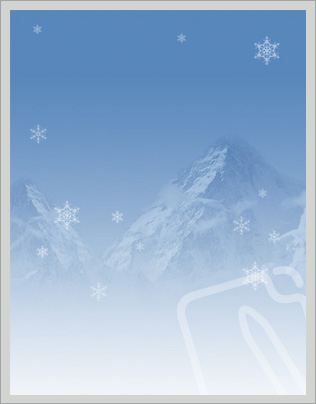
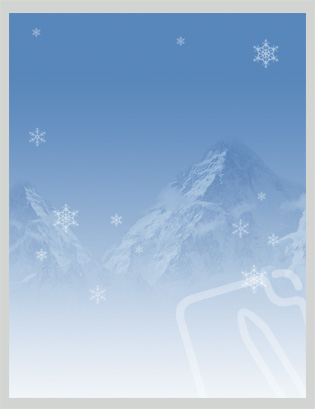
Added CSS rotation and shadow.

diff --git a/plugin.js b/plugin.js
@@ -6,8 +6,8 @@
 
 ( function() {
 
-	var CARD_HEIGHT = 404,
-		CARD_WIDTH = 316;
+	var CARD_HEIGHT = 409,
+		CARD_WIDTH = 315;
 
 	CKEDITOR.plugins.add( 'xmas', {
 		requires: 'dialog',
@@ -81,6 +81,15 @@
 					'text-align: right;' +
 					'color: #1f3e6a;' +
 					'font-size: 12px;' +
+				'}' +
+				'div.cke_xmas_card {' +
+					'transform: rotate(-10deg);' +
+					'-ms-transform: rotate(-10deg);' +
+					'-webkit-transform: rotate(-10deg);' +
+					'-webkit-box-shadow: 10px 10px 45px -2px rgba(0,0,0,0.75);' +
+					'-moz-box-shadow: 10px 10px 45px -2px rgba(0,0,0,0.75);' +
+					'box-shadow: 10px 10px 45px -2px rgba(0,0,0,0.75);' +
+					'border: 2px solid #a3a3a3;'+
 				'}' +
 				'div.cke_xmas_card a {' +
 					'pointer-events: auto;' +
